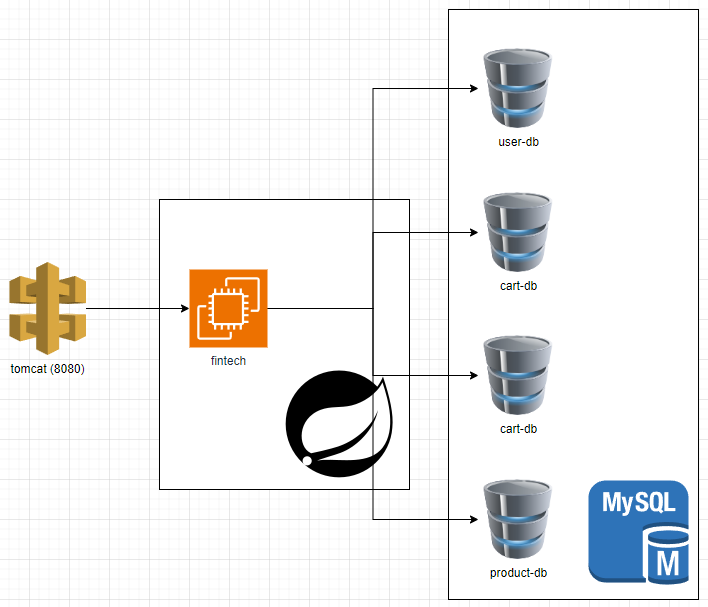
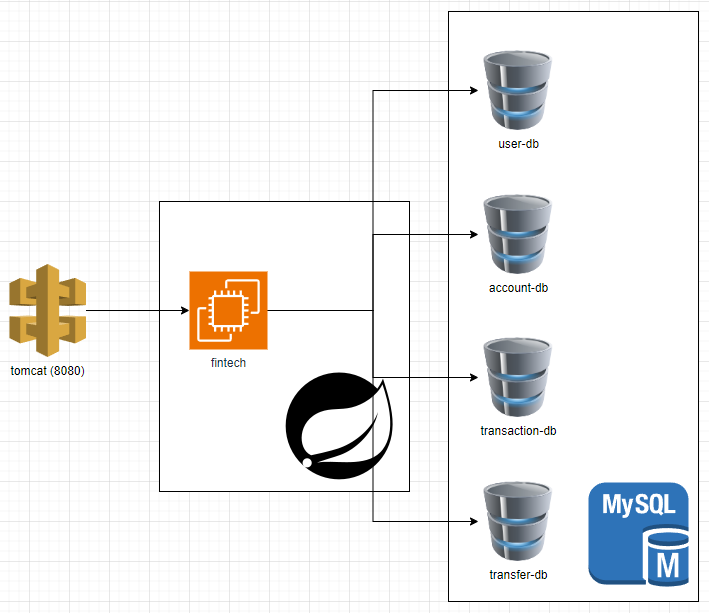
chore : README 수정

diff --git a/README.md b/README.md
@@ -2,7 +2,7 @@
 
 ## 📝 프로젝트 주제
 
-스프링 부트를 활용한 서버 API 기반 커머스 프로젝트
+- 스프링 부트를 활용한 서버 API 기반 간단한 핀테크 프로젝트
 
 ## 🛢 프로젝트 구조
 
@@ -14,17 +14,16 @@
 
 ### ⚙ Tech Stack
 
-- Language : `Java 11`
+- Language : `Java 17`
 - Build : `Gradle`
 - Database
-    - RDB : `Mysql` `MariaDB`
-    - Non-Relation DBMS : `Redis`
+  - RDB : `Mysql`
 - Test : `Junit5`
 - Login Token : `JWT`
 - Test UI : `Swagger` `Postman`
 - Server : `Tomcat v8.5`
-- JDK : `JDK 11`
-- Library : `Lombok`, `Mariadb-Client`
+- JDK : `JDK 17`
+- Library : `Lombok`, `MySQL-Connector`
 
 ---
 
@@ -32,8 +31,8 @@
 
 ### 회원가입
 
-- [ ] 회원 가입 (이메일, 이름, 생년월일, 비밀번호, 성별)
-- [ ] 유효성 검사 (기가입 이메일, 이름)
+- [ ] 회원 가입 (아이디, 비밀번호, 이름, 생년월일)
+- [ ] 유효성 검사 (기가입 아이디, 이름)
 
 ### 로그인
 
@@ -41,40 +40,39 @@
 - [ ] 로그인 토큰을 통한 제어 확인 (JWT, Filter를 사용해서 간략하게)
 - [ ] 로그인 유효성 검사 (미가입 이메일, 비밀번호 비일치)
 
-### 관리자
-
-- [ ] 관리자 로그인
-- [ ] 상품 등록
-- [ ] 상품 삭제
-- [ ] 회원 관리
-
 ---
 
-## 🔍 상품명 검색 기능
+## 💵 계좌 관리 기능
 
-### 상품 검색
+### 계좌 관리
 
-- [ ] 로그인 여부와 관계없이 상품 검색
+- [ ] 계좌 생성
+- [ ] 계좌 삭제
 
-### 상품 상세 조회
+### 계좌 금액 관리
 
-- [ ] 상품 상세 조회 (상품명, 가격, 제조사 등)
+- [ ] 계좌 금액 입금
+- [ ] 계좌 금액 출금
+- [ ] 계좌 입출금 내역 조회 (전체, 입금만, 출금만)
 
-## 🛒 상품 장바구니 기능
+## 🔍 계좌 검색 기능
 
-- [ ] 상품 담기 (로그인 여부 확인)
-- [ ] 장바구니 목록 (본인 장바구니 조회)
-- [ ] 장바구니 삭제
+- [ ] 본인 계좌 검색
+
+## 💸 계좌 송금 기능
+
+- [ ] 계좌 송금
+- [ ] 송금 내역 조회
 
 ---
 
 ## 📅 주차별 개발 계획
 
 - 1주차 - 프로젝트 주제 선정 및 기능 구성
-- 2주차 - 로그인, 회원가입 기능 구현
-- 3주차 - 상품 검색, 상품 상세 조회
-- 4주차 - 장바구니 상품 담기, 장바구니 조회
-- 5주차 - 장바구니 상품 삭제, 관리자 로그인
+- 2주차 - 로그인, 회원가입 기능
+- 3주차 - 계좌 관리, 검색 기능
+- 4주차 - 계좌 금액 관리 기능
+- 5주차 - 계좌 송금 기능
 
 ## ⚠ Trouble Shooting
 
